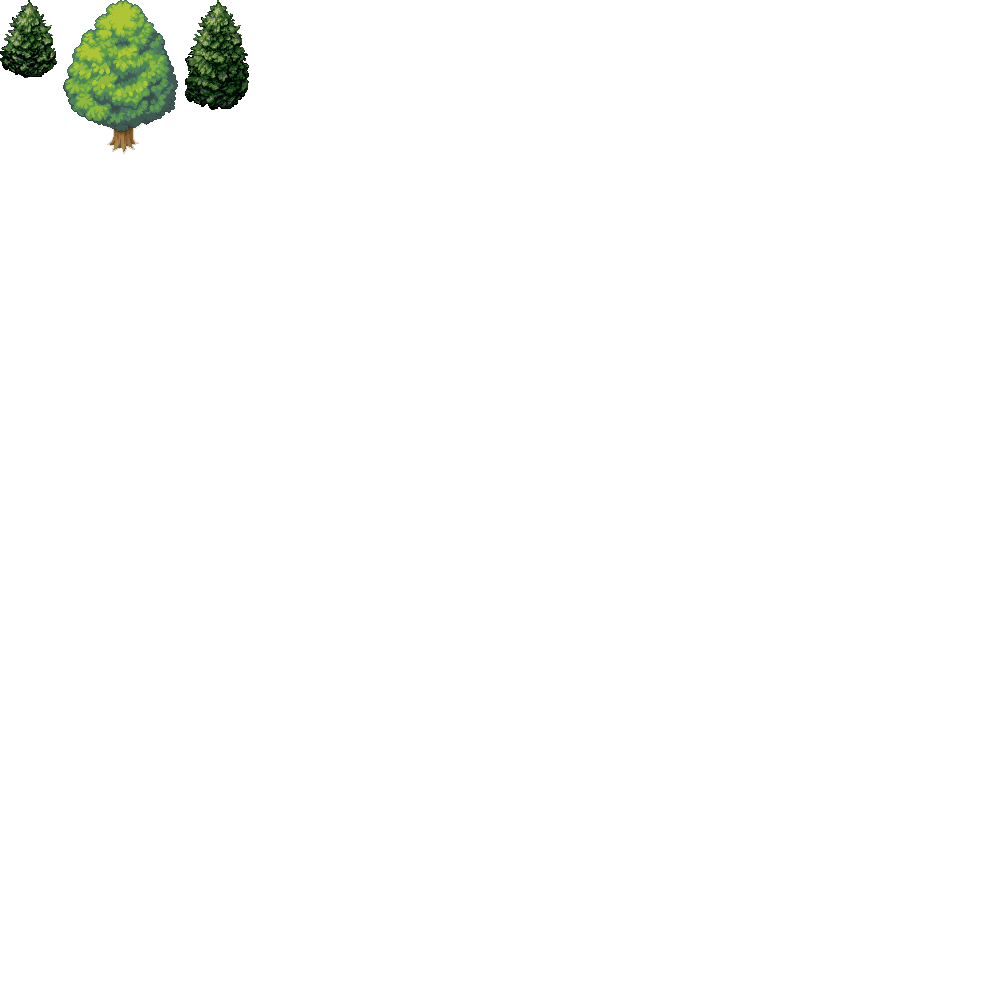
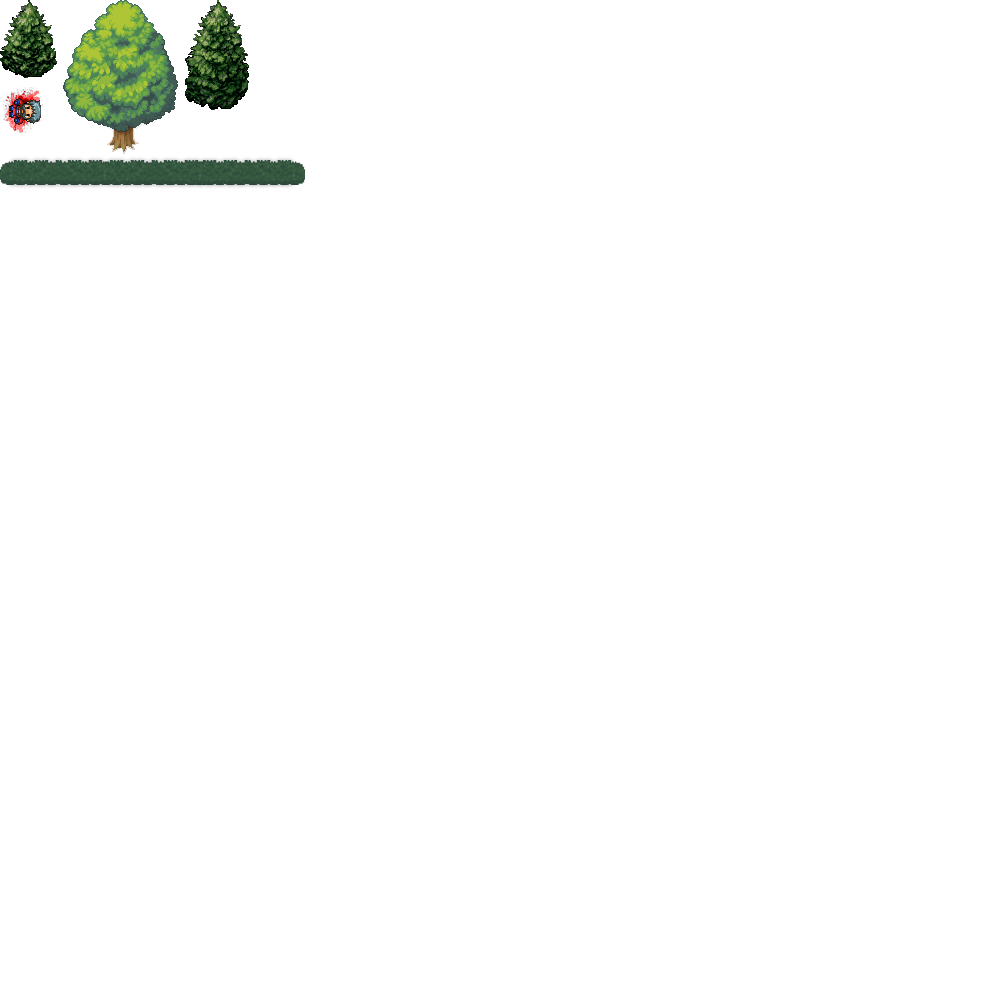
Correcting order of objectives. Map improved. Fixed menu animation.

Changed region(s): [[0.0, 0.093, 0.31, 0.186]]

diff --git a/Vulcania2/Main.cpp b/Vulcania2/Main.cpp
@@ -111,7 +111,7 @@ int main()
 	if (!fontMain.loadFromFile("fonts/arial.ttf")) { std::cout << "Error: Game failed to load 'arial' font." << std::endl; }
 
 	player.setTexture(pTexture);
-	player.setPosition(713, 973);
+	player.setPosition(605, 1255);
 
 	map.setTexture(mTexture);
 
@@ -198,6 +198,20 @@ int main()
 
 	sf::Sprite Object0;
 	objects.load(Object, Object0);
+	sf::Sprite Object1;
+	objects.load(Object, Object1);
+	sf::Sprite Object2;
+	objects.load(Object, Object2);
+	sf::Sprite Object3;
+	objects.load(Object, Object3);
+	sf::Sprite Object4;
+	objects.load(Object, Object4);
+	sf::Sprite Object5;
+	objects.load(Object, Object5);
+	sf::Sprite Object6;
+	objects.load(Object, Object6);
+	sf::Sprite Object7;
+	objects.load(Object, Object7);
 
 	sf::Sprite BoundaryV0;
 	misc.loadBoundaryV(BoundaryV, BoundaryV0);
@@ -205,6 +219,8 @@ int main()
 	misc.loadBoundaryV(BoundaryV, BoundaryV1);
 	sf::Sprite BoundaryV2;
 	misc.loadBoundaryV(BoundaryV, BoundaryV2);
+	sf::Sprite BoundaryV3;
+	misc.loadBoundaryV(BoundaryV, BoundaryV3);
 	sf::Sprite BoundaryH0;
 	misc.loadBoundaryH(BoundaryH, BoundaryH0);
 	sf::Sprite BoundaryH1;
@@ -225,6 +241,7 @@ int main()
 	sf::String sentence;
 
 	loadingThread.terminate();
+	std::cout << "*** Loading Time: " << totalGameTime.getElapsedTime().asSeconds() + 0.3 << " seconds." << std::endl;
 
 	while (Window.isOpen())
 	{
@@ -259,7 +276,7 @@ int main()
 							{
 								std::ofstream file(saveFileName);
 							}
-							if (objective.part == 0)
+							if (objective.currentObj == 5 && objective.part == 0)
 							{
 								misc.showArrow = true;
 								misc.arrowFlash = true;
@@ -280,6 +297,7 @@ int main()
 								menu.textContinueGame.setColor(sf::Color(204, 204, 0));
 								menu.textQuit.setColor(sf::Color(255, 255, 255));
 								Window.setView(Window.getDefaultView());
+								updateMenuFrame = true;
 							}
 						}
 					}
@@ -291,8 +309,8 @@ int main()
 				{
 					if (Event.key.code == sf::Keyboard::X)
 					{
-						std::cout << "PlayerX: " << player.getPosition().x << " PlayerY: " << player.getPosition().y << " player.moving: " << player.moving << std::endl;
-						std::cout << "GamePart: " << objective.part << " player.frozen: " << player.frozen << std::endl;
+						std::cout << "Position: (" << player.getPosition().x << ", " << player.getPosition().y << ") | player.moving: " << player.moving << " | player.frozen: " << player.frozen << std::endl;
+						std::cout << "objective.currentObj: " << objective.currentObj << " | objective.part: " << objective.part << std::endl;
 					}
 					else if (Event.key.code == sf::Keyboard::P || Event.key.code == sf::Keyboard::Escape)
 					{
@@ -462,11 +480,19 @@ int main()
 		buildings.draw("House4", Building, House4, 5, 1027, 604);
 		buildings.spawnDoors();
 
-		objects.draw("Object0", Object, Object0, 0, 730, 475);
+		objects.draw("Tree0", Object, Object0, 0, 730, 475);
+		objects.draw("Tree1", Object, Object4, 0, 2224, 1688);
+		objects.draw("Tree2", Object, Object5, 0, 2334, 1688);
+		objects.draw("Tree2", Object, Object6, 0, 2444, 1688);
+		objects.draw("Tree3", Object, Object7, 0, 2554, 1688);
+		objects.draw("DeadUncle", Object, Object1, 3, 2540, 1796);
+		objects.draw("Bush0", Object, Object2, 4, 2176, 1721);
+		objects.draw("Bush1", Object, Object3, 4, 2340, 1721);
 
 		misc.drawBoundaryV("BoundaryV0", BoundaryV, BoundaryV0, 0, 0);
 		misc.drawBoundaryV("BoundaryV1", BoundaryV, BoundaryV1, 0, 1000);
 		misc.drawBoundaryV("BoundaryV2", BoundaryV, BoundaryV2, 2080, 1870);
+		misc.drawBoundaryV("BoundaryV3", BoundaryV, BoundaryV3, 2655, 1690);
 		misc.drawBoundaryH("BoundaryH0", BoundaryH, BoundaryH0, 575, 0);
 		misc.drawBoundaryH("BoundaryH1", BoundaryH, BoundaryH1, 1150, 0);
 		misc.drawBoundaryH("BoundaryH2", BoundaryH, BoundaryH2, 700, 1123);
@@ -537,6 +563,7 @@ int main()
 			Window.draw(BoundaryV0);
 			Window.draw(BoundaryV1);
 			Window.draw(BoundaryV2);
+			Window.draw(BoundaryV3);
 			Window.draw(BoundaryH0);
 			Window.draw(BoundaryH1);
 			Window.draw(BoundaryH2);
@@ -551,6 +578,13 @@ int main()
 			Window.draw(House3);
 			Window.draw(House4);
 			Window.draw(Object0);
+			Window.draw(Object1);
+			Window.draw(Object2);
+			Window.draw(Object3);
+			Window.draw(Object4);
+			Window.draw(Object5);
+			Window.draw(Object6);
+			Window.draw(Object7);
 			if (objective.part >= 1 && objective.part <= 2) { Window.draw(courier); }
 			if (misc.arrowFlash == true && misc.showArrow == true && misc.paused == false) { Window.draw(arrow); }
 			if (misc.showExclaim == true)
@@ -570,7 +604,7 @@ int main()
 			{
 				Window.draw(objectivebox);
 				Window.draw(textGameObjective);
-				if (objective.currentObj == 0) { Window.draw(textgameObjectiveCurrent); }
+				if (objective.currentObj >= 0) { Window.draw(textgameObjectiveCurrent); }
 			}
 			if (misc.showSignBox == true)
 			{

diff --git a/Vulcania2/Objective.cpp b/Vulcania2/Objective.cpp
@@ -23,63 +23,70 @@ void Objective::initiate()
 {
 	if (misc.gamestate == Misc::GameState::InGame && misc.paused == false)
 	{
-		if (part == 0)
+		if (currentObj == 0)
 		{
-			objCurrentText = "Go home.";
-			if (player.getPosition().x >= 820 && player.getPosition().x <= 851 && player.getPosition().y >= 510 && player.getPosition().y <= 538)
-			{
-				part = 1;
-				courier.setPosition(1114, player.getPosition().y);
-				courier.direction = player.getPosition() - courier.getPosition();
-				courier.pedSource = 0;
-			}
+			objCurrentText = "Walk with Tobias.";
 		}
-		else if (part == 1)
+		else if (currentObj == 5)
 		{
-			misc.source.y = Misc::Direction::Right;
-			player.frozen = true;
-			misc.showArrow = false;
-			misc.arrowFlash = false;
-			misc.showExclaim = true;
-			if (courier.getPosition().x >= player.getPosition().x + 26)
+			if (part == 0)
 			{
-				courier.setTextureRect(sf::IntRect((int)courier.pedSource * 32, (int)Misc::Direction::Left * 32, 32, 32));
-				courier.move(courier.movePedSpeed * courier.direction * courier.clockMovement.getElapsedTime().asSeconds());
-				courier.pedSource++;
-				if (courier.pedSource * 32 >= 96) // 96 = Width of Entire Texture applied to Sprite (not just the Rect)
+				objCurrentText = "Go home.";
+				if (player.getPosition().x >= 820 && player.getPosition().x <= 851 && player.getPosition().y >= 510 && player.getPosition().y <= 538)
+				{
+					part = 1;
+					courier.setPosition(1114, player.getPosition().y);
+					courier.direction = player.getPosition() - courier.getPosition();
 					courier.pedSource = 0;
+				}
 			}
-			else
+			else if (part == 1)
 			{
-				misc.showExclaim = false;
-				misc.showTextBox = true;
-				part = 2;
-				subPart = 0;
+				misc.source.y = Misc::Direction::Right;
+				player.frozen = true;
+				misc.showArrow = false;
+				misc.arrowFlash = false;
+				misc.showExclaim = true;
+				if (courier.getPosition().x >= player.getPosition().x + 26)
+				{
+					courier.setTextureRect(sf::IntRect((int)courier.pedSource * 32, (int)Misc::Direction::Left * 32, 32, 32));
+					courier.move(courier.movePedSpeed * courier.direction * courier.clockMovement.getElapsedTime().asSeconds());
+					courier.pedSource++;
+					if (courier.pedSource * 32 >= 96) // 96 = Width of Entire Texture applied to Sprite (not just the Rect)
+						courier.pedSource = 0;
+				}
+				else
+				{
+					misc.showExclaim = false;
+					misc.showTextBox = true;
+					part = 2;
+					subPart = 0;
+				}
 			}
-		}
-		else if (part == 2)
-		{
-			player.frozen = true;
-			if (subPart == 0)
+			else if (part == 2)
 			{
-				misc.textInTextBox = "MAILMAN: Do you live here? I have a package for this address.";
-				misc.showTextBox = true;
-			}
-			else if (subPart == 1)
-			{
-				misc.textInTextBox = "MAILMAN hands you the package.";
-				misc.showTextBox = true;
-			}
-			else if (subPart == 2)
-			{
-				misc.textInTextBox = "MAILMAN: Sign here with your name.";
-				misc.showTextBox = true;
-			}
-			else if (subPart == 3)
-			{
-				objCurrentText = "Sign with your name.";
-				misc.showSignBox = true;
-				misc.showTextBox = false;
+				player.frozen = true;
+				if (subPart == 0)
+				{
+					misc.textInTextBox = "MAILMAN: Do you live here? I have a package for this address.";
+					misc.showTextBox = true;
+				}
+				else if (subPart == 1)
+				{
+					misc.textInTextBox = "MAILMAN hands you the package.";
+					misc.showTextBox = true;
+				}
+				else if (subPart == 2)
+				{
+					misc.textInTextBox = "MAILMAN: Sign here with your name.";
+					misc.showTextBox = true;
+				}
+				else if (subPart == 3)
+				{
+					objCurrentText = "Sign with your name.";
+					misc.showSignBox = true;
+					misc.showTextBox = false;
+				}
 			}
 		}
 		else

diff --git a/Vulcania2/Objects.cpp b/Vulcania2/Objects.cpp
@@ -37,7 +37,15 @@ void Objects::draw(std::string objectName, sf::Texture& objectsTexture, sf::Spri
 	{
 		objects.setTextureRect(sf::IntRect(185, 0, 64, 110));
 	}
-	if (objectNumber >= 0 && objectNumber <= 2)
+	else if (objectNumber == 3)
+	{
+		objects.setTextureRect(sf::IntRect(0, 87, 42, 46));
+	}
+	else if (objectNumber == 4)
+	{
+		objects.setTextureRect(sf::IntRect(0, 156, 305, 33));
+	}
+	if (objectNumber >= 0 && objectNumber <= 4)
 	{
 		objects.setPosition(objectX, objectY);
 		float left = objects.getGlobalBounds().left - 24;

diff --git a/Vulcania2/Misc.cpp b/Vulcania2/Misc.cpp
@@ -13,10 +13,10 @@ Misc::Misc()
 	gamestate = StartMenu;
 
 	source.x = 1;
-	source.y = Up;
+	source.y = Down;
 
 	lockMode = true;
-	fastMode = true;
+	fastMode = false;
 
 	paused = false;
 
